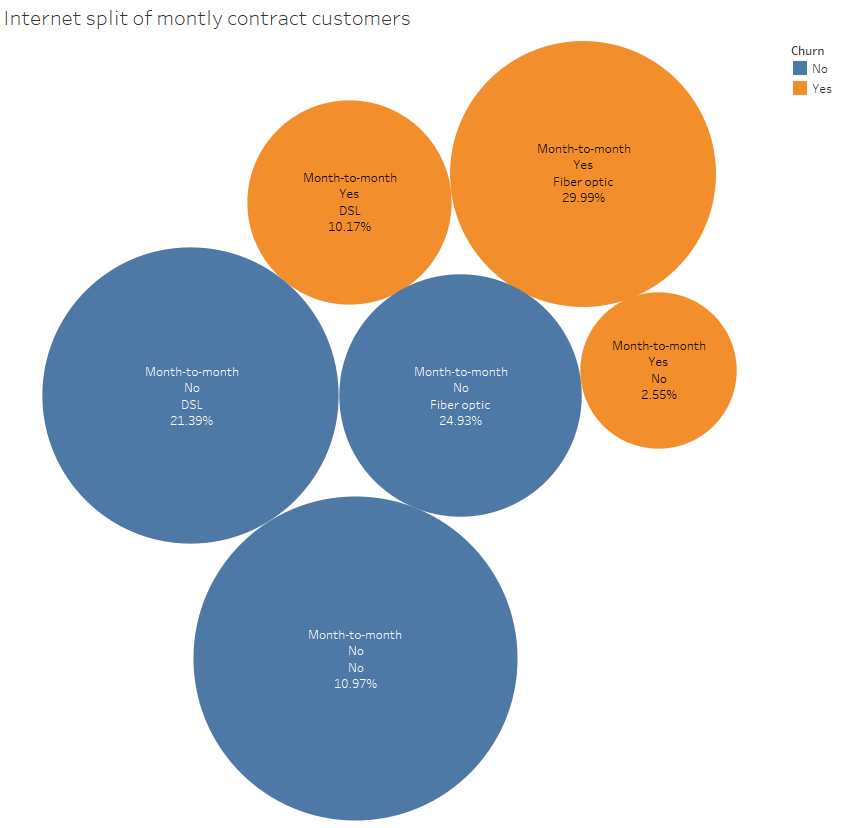
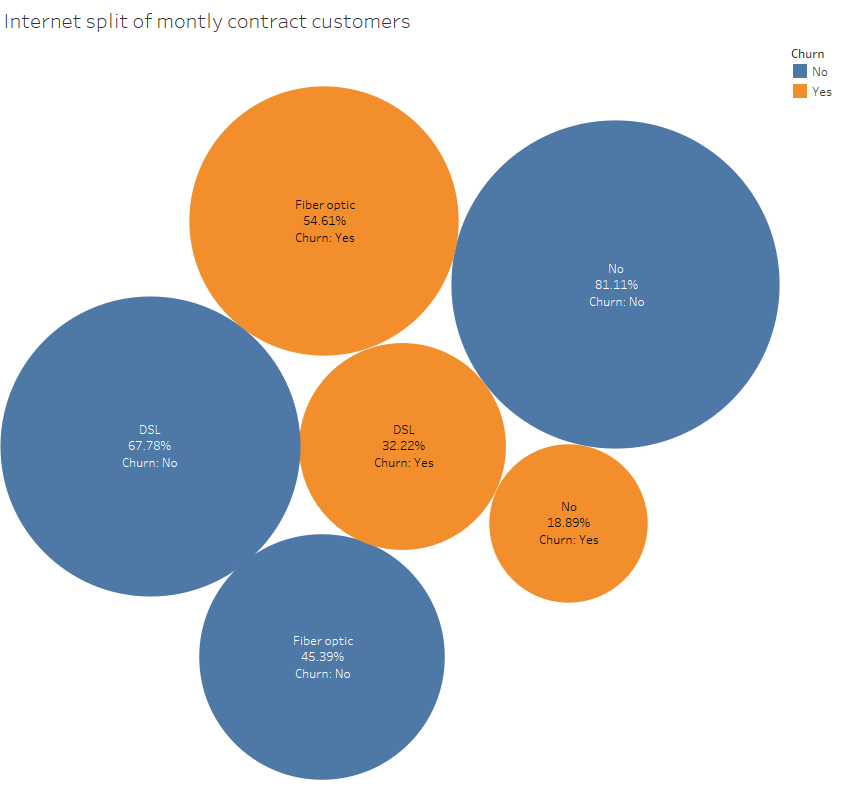
Updated 3.1

diff --git a/index.html b/index.html
@@ -161,7 +161,7 @@
         <p>
             After further analysing the data in terms of gender, SeniorCitizen, Partner, Dependents, PhoneService and internet
             among the people who are monthly subscribers, I have noticed that people who own fiber optic internet connection are
-            the majority(close to 30%) of the people leaving the service.
+            the majority(More than 50%) of the people leaving the service among monthly subscribers.
         </p>
         <div class="text-center">
             <img src="images/3.1.png">
